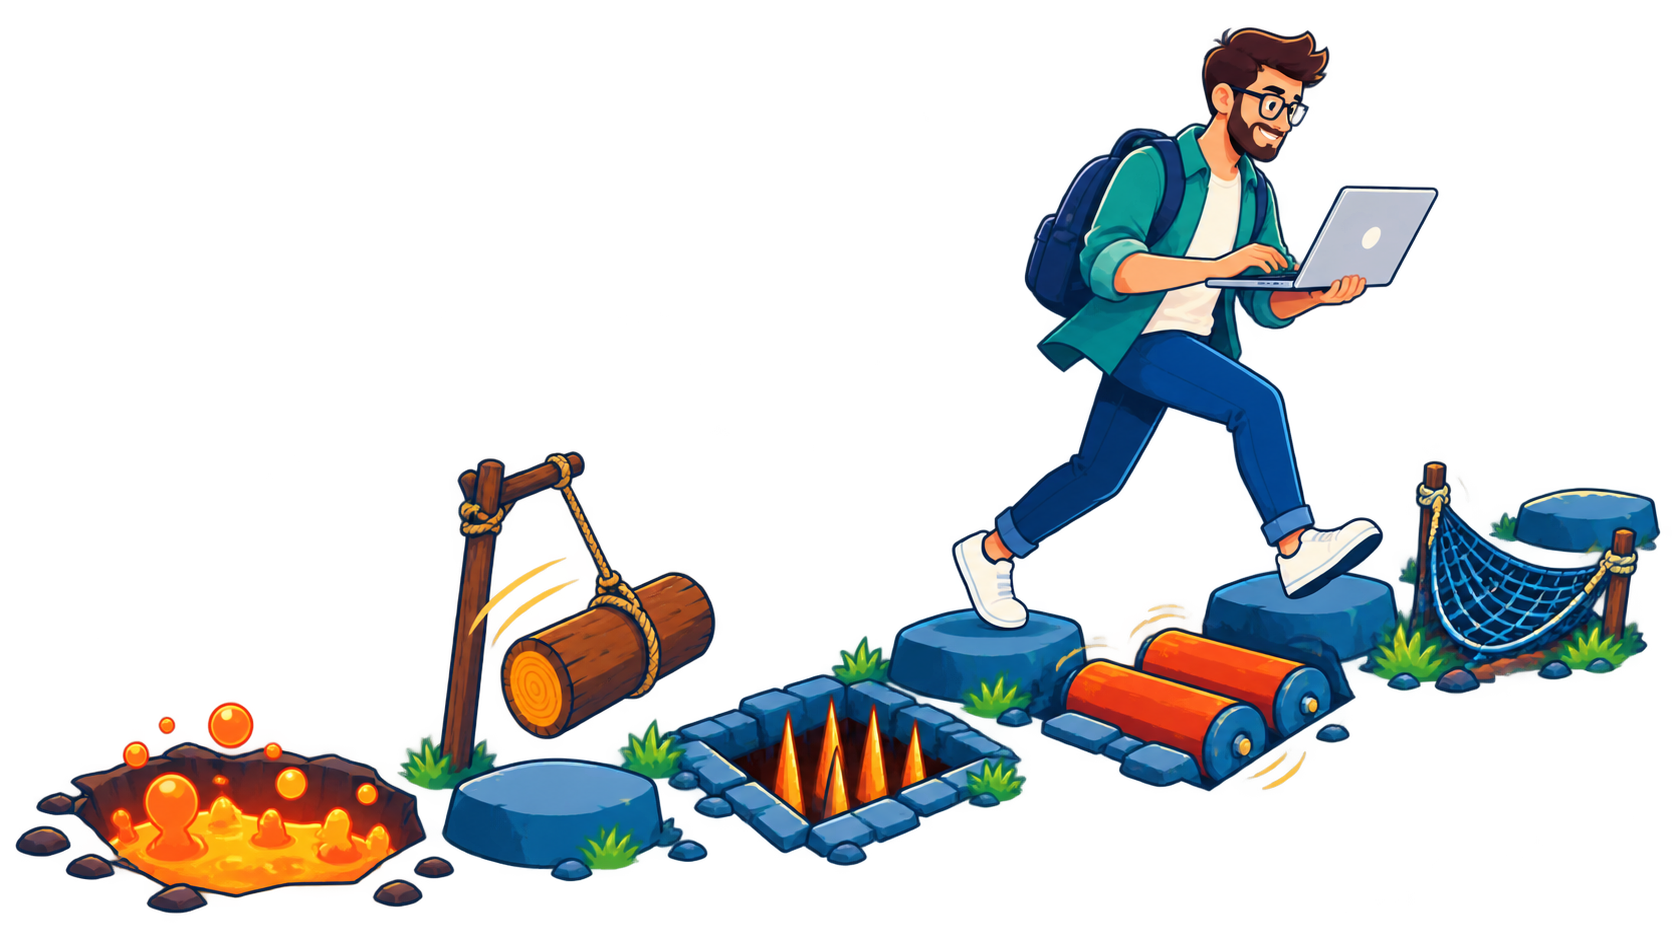
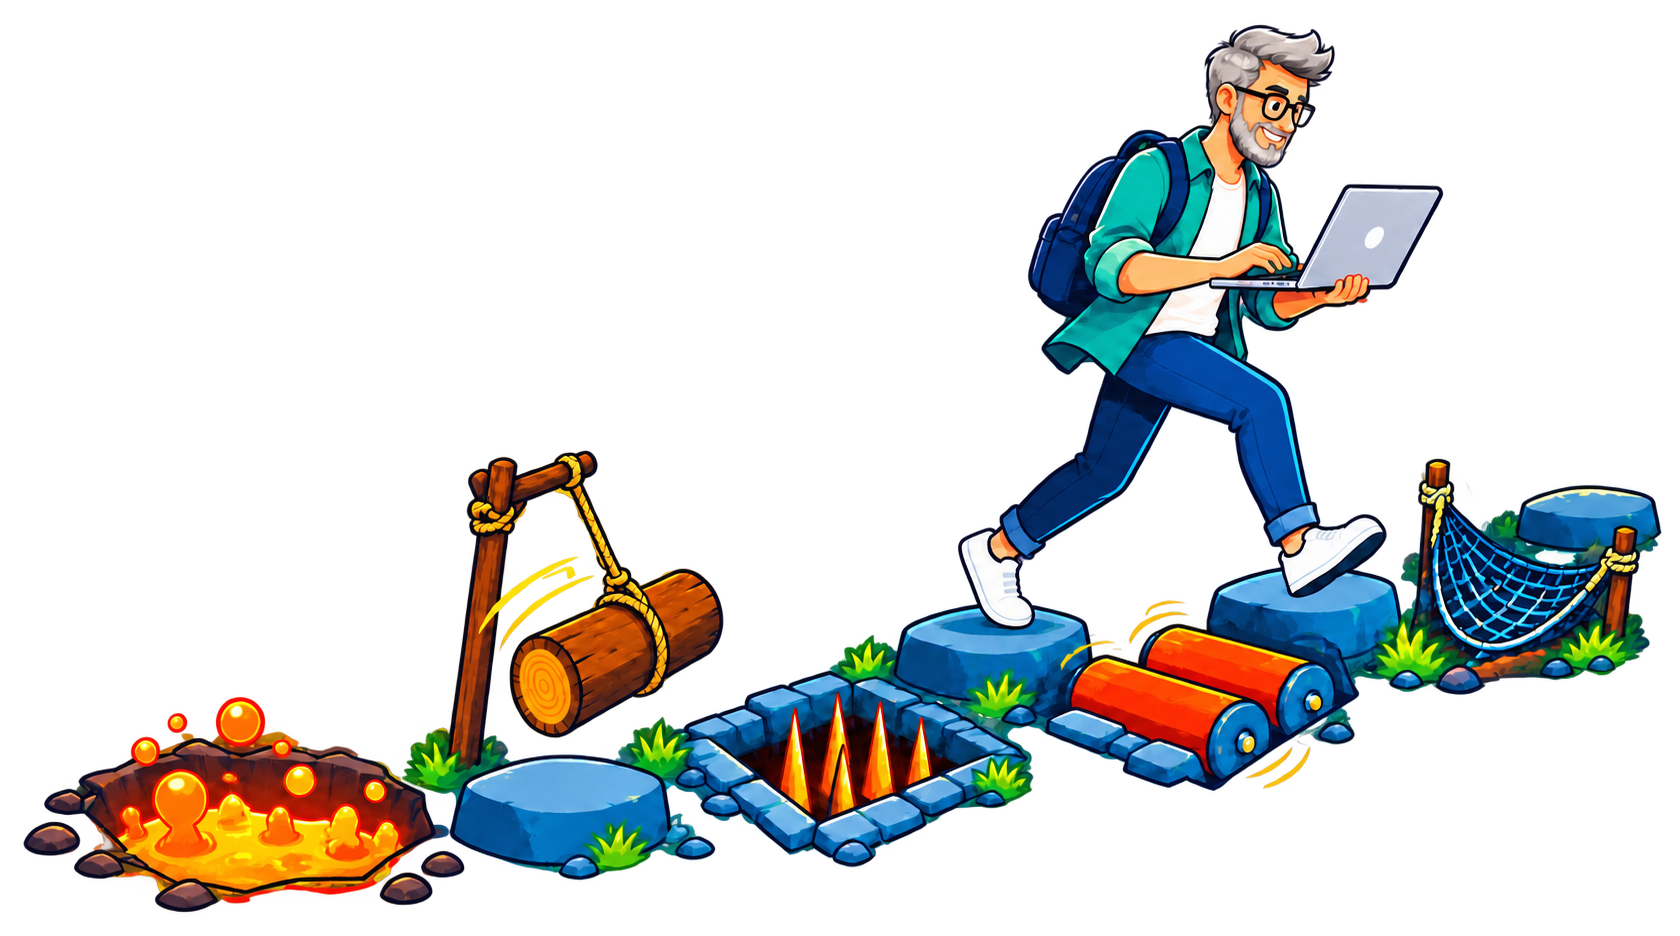
Age the opening-slide engineer
- Use ImageGen to depict the cover engineer around 60 while preserving the transparent trap illustration

- Record the visual decision and include existing slide and speaker-script edits

- Match the requested mature appearance while retaining an energetic opening

Changed region(s): [[0.0, 0.031, 0.9952, 0.9915]]

diff --git a/slides.md b/slides.md
@@ -32,7 +32,7 @@ Jim Moore
 <!--
 ~0:30
 
-This isn't prompt or context engineering, RAG pipelines, some framework, or any of that. I'm sure you've noticed that the latest best practices - and what's available - for those changes almost every week.
+This isn't prompt or context engineering, RAG pipelines, some framework, or any of that. I'm sure you've noticed that the latest best practices - and what's available - for those change almost every week.
 
 This is how to approach what has become increasingly useful as all of these things get more powerful, but we don't know how to properly make use of that.
 
@@ -79,8 +79,6 @@ Thomas Sowell isn't a tech guy. He's a famous systems thinker - about **human** 
 
 **PLANT THE FRAME — one sentence, then move on. Do NOT explain it. It gets paid off at the end.**
 - Sowell isn't a technologist. He's a systems thinker about **human** systems — incentives, institutions, second-order consequences. We're technologists, and we think in technical systems.
-> "The parts we wrote down are the technical system. The parts we didn't are still running."
-
 -->
 
 ---
@@ -115,7 +113,7 @@ We've all been seeing how truly useful AI is proving to be.
 
 [click]
 
-In this room, we *tend* to focus on code from Claude.
+It isn't just implementation. Critique got cheap. Alternatives. Analysis. Explanation.
 
 [click]
 
@@ -130,9 +128,6 @@ AI continues to make getting a REALLY good answer much faster and easier.
 # Supporting Notes
 
 - Hours or days → minutes. Genuinely fantastic.
-
-**[1] cluster**
-- It isn't just implementation. Critique got cheap. Alternatives. Analysis. Explanation.
 
 **[2] kicker — the question under all five traps**
 > Not "how much can AI do?" — that's a demo question.
@@ -151,24 +146,12 @@ class: anchor-slide good
 <div class="line">Sometimes the answer is<br>more AI, much more aggressively.</div>
 
 <div class="fine">Easy isn't bad. Cheap isn't low quality. Nothing in the next hour is an argument for using less of this.</div>
+<div class="fine">It's understanding what the tradeoffs are.</div>
 
 <!--
 ~0:20
 
-And before we go any further.
-
-Easy isn't bad. Cheap isn't low quality.
-
-Nothing in the next hour is an argument for using less of this. Sometimes the right answer at the end of one of these traps is to use much more AI, much more aggressively.
-
-# Supporting Notes
-
-- **This slide exists because the deck gets shared as a link** (D-80). Three of the five trap titles read as anti-AI to anyone who wasn't in the room, and every qualification that defused them used to be spoken-only.
-- **Say it anyway.** The slide carrying it does not mean the room heard it.
-- **Do not hedge or expand.** One beat, plainly stated, then move. Arguing the point makes it sound defensive and invites the room to suspect the opposite.
-- This is the promise the five traps are then allowed to complicate.
-
-→ One of the first things it made easy was getting a really good answer.
+Ok, NOW let's do the fun stuff - Complicating things!
 -->
 
 ---
@@ -193,12 +176,7 @@ class: trap-slide trap-01
 
 For our purposes, let's throw hallucinations out the window.
 
-I'm interested in when it is giving truly sophisticated, well-reasoned, completely coherent answers.
-
-# Supporting Notes
-
-- Let it sit for a second.
-
+I'm interested in when it gives truly sophisticated, well-reasoned, completely coherent answers.
 -->
 
 ---
@@ -243,18 +221,27 @@ You didn't get 47 checks.<br>You got one check, 47 times.
 </div>
 
 <!--
-~3:30 — the money slide of Trap 1. Do not rush the clicks.
+~3:30
 
 Here we go: Standard story card. {read}
 
 Let's take advantage of AI's amazing abilities...
-{impl}
-{tests}
-{green}
+
+[click]
+
+good, correct code
+
+[click]
+
+good tests that put a strong fence around drift and edge conditions
+
+[click]
 
 Sweet! I'm not going to unnecessarily go back to writing code when the code it generates is generally better - especially as the models get better - than I could anyway.
 
 Or, OMG, all those *tedious* tests.
+
+47 tests for a really basic story means 47 tests I didn't have to type.
 
 However, you must be thinking, "There MUST be something wrong here..." Yep. What is it?
 
@@ -266,57 +253,21 @@ Hmmm....
 
 [click]
 
-{when the 47 passing turns red}
+We can't "blame" the AI for that. And a human - especially one who doesn't know rules Finance hadn't stated - would likely make the same mistake.
 
-Ok, fine. So we were testing all the right things. With 47 tests, no less. But it was for what we "knew."
-
-We can't "blame" the AI for that. And a human - especially one that doesn't know rules finance hadn't stated - would likely make the same mistake.
-
-And that's what makes this interesting. Humans are slower and can be more unreliable, while AI is much faster and more precise — and it happily does work we don't want to do.
-
-That's wonderful.
-
-It also changes the trade-offs. We'll get back to that...
+And that's what makes this interesting. Humans are slower and can be more unreliable, while AI is much faster and more precise — and it happily does work we didn't mean.
 
 [click]
 
-{point at the 47}
+But even then, it took care of a ton of code that's mostly pretty boilerplate anyway.
 
-You didn't get forty-seven checks. You got one check, forty-seven times.
+That's wonderful.
 
-Until then, let's look at how we can identify and fix the issues.
+It also changes the trade-offs.
 
-# Supporting Notes
+Let's look at some ways we can identify and fix the issues.
 
-- Read the requirement out loud. Ask the room: does anybody see a problem with that sentence?
-- They won't. It's a perfectly normal requirement. **That's the point.**
-
-**[1]** AI writes the implementation. Say it's good code.
-**[2]** AI writes the tests. Good tests — edge cases, boundaries, day one and day thirty.
-**[3]** Green. All the way green.
-- What do we know at this moment? The implementation matches the tests. Nothing at all about whether either matches what the business meant.
-
-**[4]** Both came out of the same reading of that sentence.
-- **The problem is NOT "AI wrote the tests."** I want AI writing tests. It's very good at it and I'm not going back.
-> The problem is that the check repeated the mistake.
-
-**[5]** Finance meant unused *whole days*. And they never refund the setup fee — everybody in billing knows, nobody wrote it down.
-- We shipped a refund calculator that overpays. Quietly. Correctly, according to every test we have.
-
-**[6] the anchor — the line of this trap, now on screen (D-80)**
-- **Still point at the `47 passing` node while you say it.** The node is orange by now and the anchor is orange with it; the gesture ties the sentence to the number. On screen it is insurance for the reader who wasn't here, not a substitute for the delivery.
-- **Say it before you click, then click.** The line lands spoken; the slide confirms it. Clicking first lets the room read ahead and the beat dies.
-- Deliver it flat. It is not a joke and it is not a gotcha — it is arithmetic.
-
-**THE OBJECTION — this is the core of Trap 1. Lead with it, do NOT wait to be challenged.**
-- *"Somebody in here is thinking: a human would have made exactly the same mistake."*
-- **Yes. Absolutely.** A human reading that sentence makes the identical error. That is not the interesting part.
-- But one human makes it **once**. And a second human, reading that sentence separately, probably makes a *different* mistake — **which is the entire reason code review has ever worked.**
-- The mistake and the thing that was supposed to catch it are no longer independent events.
-> "Independence used to arrive as a byproduct — different people, different days, the time it took. Nobody budgeted for it, so nobody noticed when it stopped arriving."
-- **That's the qualitative change.** Not that AI is wrong more often. That the *amount* of evidence went up while the *independence* of it went to zero — and every artifact in front of you still says "verified."
-
-→ So what would count as evidence that didn't come from that sentence?
+It also means, practically speaking, that we're going to need to rethink how we approach that problem...
 -->
 
 ---
@@ -339,7 +290,7 @@ class: canvas-slide
 </div>
 
 <div class="kicker" v-click="4">
-Use AI to challenge your thinking —<br>&nbsp;&nbsp;&nbsp;&nbsp;then use evidence to challenge <u>both</u> of you.
+Use AI to <u>challenge</u> your thinking —<br>&nbsp;&nbsp;&nbsp;&nbsp;then use evidence to challenge <u>both</u> of you.
 </div>
 
 </div>
@@ -347,13 +298,23 @@ Use AI to challenge your thinking —<br>&nbsp;&nbsp;&nbsp;&nbsp;then use eviden
 <!--
 ~1:35
 
+[click]
+
 There are going to be rules that don't need to be included because they've already been established and enforced with normal system design approaches.
 
-Just pointing out that not EVERYTHING needs to be stated or understood for the story to implement. Bounded contexts and the like are all still vital.
+And that acts as yet another validation that your changes are correct.
+
+Bounded contexts and the like are all still vital.
 
 [click]
 
-The 90 days is where AI becomes really useful. Let it create a quick script or run through appropriate tooling for audit data. Whether the process the calculator is replacing is manual, an old service, a SaaS, whatever - you have that audit data of payouts.
+The 90 days is where AI becomes really useful.
+
+Let it create a quick script or run through appropriate tooling - MCP server, DB access, API calls, whatever - for audit data. (With appropriate access controls, of course.)
+
+Whether this calculator is replacing a spreadsheet, an old service, a SaaS, whatever - you have that audit data of payouts.
+
+This is actual, honest-to-goodness EVIDENCE.
 
 Test your logic against reality.
 
@@ -365,40 +326,15 @@ Showing a few samples to the owner - nothing to overwhelm, but just to confirm y
 
 One hugely valuable thing AI is excellent at is challenging you.
 
-Have it identify edge cases. Make it red-team the approaches.
+Have it identify edge cases. TDD is a great way of helping make sure the tests aren't just rubber-stamping the implementation.
+
+You'll start noticing that rediscovering XP's approaches at a moment when it got cheaper AND more necessary.
+
+Make it red-team the approaches.
 
 Ideally from another session or - better yet - another model altogether.
 
 Doing that would also help identify the best samples for your domain expert.
-
-# Supporting Notes
-
-- **Frame these as one thing:** three ways to buy back the independence we just lost. Not a checklist of good practices.
-- What they share: **none of them come from the implementation's reading of this requirement.**
-
-**[1] A check from a different source**
-- Suppose the ledger already carries a separately established `refundableBalance`. Checking `refundAmount <= refundableBalance` is just a cheap boolean comparison once that rule exists.
-- **Do not call it obvious or interpretation-free.** People still had to decide what counts as refundable, and that rule can still be wrong.
-> The independence comes from provenance: the implementation came from this sentence; the constraint came from somewhere else.
-- It does not prove the whole policy is right. It gives one independently sourced fact a chance to contradict the implementation.
-
-**[2] Replay** — the strongest, and now trivially cheap, which is itself a thing AI changed. Ninety days of real cancellations, diffed against what finance actually paid.
-- Independence comes from **history**. It was generated before anyone wrote this prompt, by a system that didn't read our sentence.
-- AI makes obtaining and comparing that history much easier: a quick script or appropriately controlled access through a tool can do work that once required a specialist and a long queue.
-- **Keep the parenthetical short:** access controls still apply. Ease of access is not permission.
-> Reality already ran the experiment. We just have to go read the results.
-
-**[3]** The cheapest one is still a human being. Ten examples, thirty minutes, the person who owns the policy.
-- Independence comes from a **different reader** — the one whose understanding is the one that counts.
-
-**[4]** Use AI to challenge your thinking — attack the design, generate tests, find edge cases. Then use evidence to challenge both of you.
-- **Fresh context matters** (the cheap version of TDD's ordering): "write the implementation, now write the tests" in one session is maximum contamination. Generating tests from the requirement in a *new* context, before the implementation exists, is meaningfully better evidence for the same effort.
-
-- **Lineage, one sentence — do not expand here, the understanding trap carries it:** none of this is new. Pairing, test-first, an on-site customer — XP built all of it to manufacture exactly this independence. We're rediscovering why, at a moment when it got cheaper and more necessary at the same time.
-
-**PROPORTIONALITY gets its own slide next.** Do not deliver it here — the next slide is where "overkill for a spike, right for money going out the door" lands.
-
-- → These techniques differ, but they force the same question.
 -->
 
 ---
@@ -406,9 +342,9 @@ layout: default
 class: anchor-slide
 ---
 
-<div class="line sm">Overkill for a spike.<br>Right for money going out the door.</div>
+<div class="line sm">Overkill for most things.<br>Right for money going out the door.</div>
 
-<div class="fine">Spending ten dollars to verify a ten-cent experiment is also an engineering failure.</div>
+<div class="fine">Spending a thousand dollars to verify a ten-buck problem is also an engineering failure.</div>
 
 <!--
 ~0:25
@@ -416,17 +352,6 @@ class: anchor-slide
 This is obviously overkill for most things. But when you're talking about something like money going out the door, you really want to be sure.
 
 It's our job as product owners and engineers to know when "vibe coding" is perfect — low stakes, just get it out — and when true design, process and data validation are needed.
-
-Spending ten dollars to verify a ten-cent experiment is also an engineering failure.
-
-# Supporting Notes
-
-- **Say this out loud, it matters.** Without it the three techniques read as a mandatory checklist, and anyone reading the deck later has no way to know they aren't.
-- Budget is set by two questions: *how sure do we need to be?* and *how bad is it if we're wrong?*
-- A refund calculator earns the replay. A spike you're deleting Friday does not.
-- **Do not turn this into a decision framework** (D-17). Two questions, named once, then move.
-
-→ These techniques differ, but they force the same question.
 -->
 
 ---
@@ -436,7 +361,7 @@ class: q-slide
 
 # What do we actually know?
 
-## Agreement isn't evidence. Use AI to attack your understanding, then find one check that could actually go red.
+## Agreement isn't evidence.<br/>Use AI to help attack your understanding, then find one check that could actually go red.
 
 <!--
 ~1:30
@@ -448,23 +373,7 @@ To restate all of that
 - does it matter if we have 47 tests all checking the same potentially flawed understanding?
 - as always, make sure when you've confirmed, it had better have **persistent** validations
 
-
-# Supporting Notes
-
-- **Pause. This is the conclusion of Trap 1.**
-> What do we actually know?
-
-- The operational version for a code review or architecture review is: *could this check catch the original mistake?*
-- **"Agreement isn't evidence" is the compressed form of the whole trap** — 47 tests agreeing means nothing if they all inherited one misunderstanding.
-- **Give AI the active job, not the cautionary one.** Attacking your understanding is the positive use here (D-15); the check that can go red is the evidence.
-- **Notice what it is NOT.** Not "was a human involved." Not "did AI write this." Those are bad proxies — a human writing a test from the same misunderstanding is exactly as useless.
-- It's about causation. Could this thing have gone red?
-
-> If it is structurally impossible for this check to fail when we've misunderstood the problem — then it isn't a check. It's a restatement.
-
-- **Name the recurring surface, once:** the teal bar means *here's a question for Monday.* Every trap will now end here.
-
-→ Suppose the answer really is right. We can still have a much bigger problem.
+Suppose the answer really is right. We can still have a much bigger problem...
 -->
 
 ---
@@ -497,15 +406,7 @@ If you've used any of the frontier models like Claude and ChatGPT, you've seen t
 
 Here we're going to assume — especially as they get even better — that the answer is completely and verifiably *right*.
 
-# Supporting Notes
-
-- Stay in the same customer-service world as the refund example, but move one step outward: from one refund decision to the support queue around the product.
-- The last trap was: the answer might be wrong. **Here, assume the answer is completely, verifiably right.** Excellent, even.
-- The system does exactly what we asked. That is what makes the trap possible.
-
-**[1] anchor — the stipulation, now on screen (D-80)**
-- This trap does not work unless the room grants the stipulation, and a reader who only sees slides has no other way to be given it.
-- Say it as a stipulation, not a concession: we are *choosing* to hand the system a win.
+Hallucinations and the like are completely off the table.
 -->
 
 ---
@@ -543,22 +444,7 @@ But what if technology could swoop in and rescue us?
 
 [click]
 
-Granted, this is ambitious, but let's run with it.
-
-
-# Supporting Notes
-
-- Eighteen hours is not a technology problem to the customer. It is simply a long time to be stuck.
-- Let the room agree with the seriousness of the problem before allowing the tone to lift.
-
-**The business dynamic to make clear:**
-- Sales growth is good news, but it has brought support growth with it.
-- The existing team now has more incidents than it can absorb.
-- Overload makes each incident take longer; longer incidents grow the queue; the larger queue creates more overload.
-- Support management's request for more people is entirely reasonable.
-
-**[1]**
-- The desired outcome is legitimate: correct resolution, in minutes, whenever the customer needs it.
+Granted, this is **really** ambitious, but let's run with it.
 -->
 
 ---

diff --git a/DECISIONS.md b/DECISIONS.md
@@ -1997,6 +1997,16 @@ Leading with the trap name solves it without a special case.
 
 ---
 
+### D-83 · The opening illustration depicts an engineer around 60
+**Decided** 2026-09-03 · **Status** Active
+
+At Jim's request, the opening-slide engineer has silver-gray hair and beard and a
+more mature face, while retaining his energetic posture, laptop, clothing, and five-trap
+obstacle course. This is an opening-art edit only; the other trap illustrations are unchanged.
+The replacement was edited with ImageGen and retains a real transparent background.
+
+---
+
 ## G. Rejected — do not reopen without new information
 
 | Idea | Why it was rejected |
